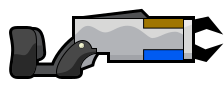
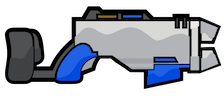
fix fast input and improve custom weapons

diff --git a/src/game/client/gameclient.cpp b/src/game/client/gameclient.cpp
@@ -2396,11 +2396,12 @@ void CGameClient::OnPredict()
 		pDummyChar = m_PredictedWorld.GetCharacterById(m_PredictedDummyId);
 
 	// predict //+KZ modified for fast input commit
-	int PredictionTick = Client()->GetPredictionTick() + g_Config.m_KaizoFastInput;
-	for(int Tick = Client()->GameTick(g_Config.m_ClDummy) + 1; Tick <= PredictionTick; Tick++)
+	int PredictionTick = Client()->GetPredictionTick();
+	int FinalTick = Client()->PredGameTick(g_Config.m_ClDummy) + g_Config.m_KaizoFastInput;
+	for(int Tick = Client()->GameTick(g_Config.m_ClDummy) + 1; Tick <= FinalTick; Tick++)
 	{
 		// fetch the previous characters
-		if(Tick == PredictionTick)
+		if(Tick == FinalTick) //+KZ modified for fast input commit
 		{
 			for(int i = 0; i < MAX_CLIENTS; i++)
 				if(CCharacter *pChar = m_PredictedWorld.GetCharacterById(i))
@@ -2426,7 +2427,7 @@ void CGameClient::OnPredict()
 		bool DummyFirst = pInputData && pDummyInputData && pDummyChar->GetCid() < pLocalChar->GetCid();
 
 		//+KZ fast input commit
-		if(g_Config.m_KaizoFastInput && Tick == PredictionTick)
+		if(g_Config.m_KaizoFastInput && Tick == FinalTick)
 			pInputData = &m_Controls.m_FastInput;
 
 		if(DummyFirst)
@@ -2505,7 +2506,7 @@ void CGameClient::OnPredict()
 		m_PredictedWorld.Tick();
 
 		// fetch the current characters
-		if(Tick == PredictionTick)
+		if(Tick == FinalTick) //+KZ modified for fast input commit
 		{
 			m_PrevPredictedWorld.CopyWorld(&m_PredictedWorld);
 
@@ -2531,7 +2532,7 @@ void CGameClient::OnPredict()
 			}
 
 		// check if we want to trigger effects
-		if(Tick > m_aLastNewPredictedTick[Dummy])
+		if(Tick > m_aLastNewPredictedTick[Dummy] && (Tick != FinalTick || !g_Config.m_KaizoFastInput)) //+KZ modified for fast input commit
 		{
 			m_aLastNewPredictedTick[Dummy] = Tick;
 			m_NewPredictedTick = true;
@@ -2563,6 +2564,10 @@ void CGameClient::OnPredict()
 		}
 	}
 
+	// +KZ modified for fast input commit
+	if(g_Config.m_KaizoFastInput)
+		m_PredictedWorld.CopyWorld(&m_PrevPredictedWorld);
+
 	// detect mispredictions of other players and make corrections smoother when possible
 	if(g_Config.m_ClAntiPingSmooth && Predict() && AntiPingPlayers() && m_NewTick && m_PredictedTick >= MIN_TICK && absolute(m_PredictedTick - Client()->PredGameTick(g_Config.m_ClDummy)) <= 1 && absolute(Client()->GameTick(g_Config.m_ClDummy) - Client()->PrevGameTick(g_Config.m_ClDummy)) <= 2)
 	{
@@ -2574,7 +2579,7 @@ void CGameClient::OnPredict()
 		{
 			if(!m_Snap.m_aCharacters[i].m_Active || i == m_Snap.m_LocalClientId || !m_aLastActive[i])
 				continue;
-			vec2 NewPos = (m_PredictedTick == PredictionTick /* +KZ modified for fast input commit */) ? m_aClients[i].m_Predicted.m_Pos : m_aClients[i].m_PrevPredicted.m_Pos;
+			vec2 NewPos = (m_PredictedTick == FinalTick /* +KZ modified for fast input commit */) ? m_aClients[i].m_Predicted.m_Pos : m_aClients[i].m_PrevPredicted.m_Pos;
 			vec2 PredErr = (m_aLastPos[i] - NewPos) / (float)minimum(Client()->GetPredictionTime(), 200);
 			if(in_range(length(PredErr), 0.05f, 5.f))
 			{
@@ -2652,7 +2657,7 @@ void CGameClient::OnPredict()
 		}
 	}
 
-	m_PredictedTick = PredictionTick;
+	m_PredictedTick = FinalTick; //+KZ modified for fast input commit
 
 	if(m_NewPredictedTick)
 		m_Ghost.OnNewPredictedSnapshot();

diff --git a/src/game/client/components/players.cpp b/src/game/client/components/players.cpp
@@ -510,10 +510,14 @@ void CPlayers::RenderPlayer(
 			State.Add(&g_pData->m_aAnimations[ANIM_WALK], WalkTime, 1.0f);
 	}
 
-	if(Player.m_Weapon == WEAPON_HAMMER)
-		State.Add(&g_pData->m_aAnimations[ANIM_HAMMER_SWING], std::clamp(LastAttackTime * 5.0f, 0.0f, 1.0f), 1.0f);
-	if(Player.m_Weapon == WEAPON_NINJA)
-		State.Add(&g_pData->m_aAnimations[ANIM_NINJA_SWING], std::clamp(LastAttackTime * 2.0f, 0.0f, 1.0f), 1.0f);
+	//+KZ custom weapons: avoid weird weapon positions
+	if(!(GameClient()->IsKaizoCharUpdated(ClientId) && GameClient()->m_aClients[ClientId].m_KaizoCustomWeapon >= 0))
+	{
+		if(Player.m_Weapon == WEAPON_HAMMER)
+			State.Add(&g_pData->m_aAnimations[ANIM_HAMMER_SWING], std::clamp(LastAttackTime * 5.0f, 0.0f, 1.0f), 1.0f);
+		if(Player.m_Weapon == WEAPON_NINJA)
+			State.Add(&g_pData->m_aAnimations[ANIM_NINJA_SWING], std::clamp(LastAttackTime * 2.0f, 0.0f, 1.0f), 1.0f);
+	}
 
 	// do skidding
 	if(!InAir && WantOtherDir && length(Vel * 50) > 500.0f)

diff --git a/src/game/gamecore_kz.cpp b/src/game/gamecore_kz.cpp
@@ -109,7 +109,7 @@ void CCharacterCore::PreTickKZ()
 {
 	if(m_Input.m_Fire & 1)
 	{
-		if(m_ActiveWeapon == KZ_CUSTOM_WEAPON_ATTRACTOR_BEAM && m_AttractorBeamPlayer == -1)
+		if((m_ActiveWeapon == KZ_CUSTOM_WEAPON_ATTRACTOR_BEAM || (m_pKaizoNetworkChar && m_pKaizoNetworkChar->m_RealCurrentWeapon == KZ_CUSTOM_WEAPON_ATTRACTOR_BEAM - KZ_CUSTOM_WEAPONS_START)) && m_AttractorBeamPlayer == -1)
 		{
 			vec2 Dir = vec2(m_Input.m_TargetX, m_Input.m_TargetY);
 			if(length(Dir) > 300.f)

diff --git a/src/game/client/components/players_kz.cpp b/src/game/client/components/players_kz.cpp
@@ -47,7 +47,7 @@ void CPlayers::RenderKaizoWeapon(const CNetObj_Character *pPrevChar, const CNetO
     case KZ_CUSTOM_WEAPON_PORTAL_GUN - KZ_CUSTOM_WEAPONS_START:
         {
 			vec2 WeaponPosition = Position + Direction * 24.f;
-			WeaponPosition.y += -2.f;
+			//WeaponPosition.y += -2.f;
 			if(IsSit)
 				WeaponPosition.y += 3.0f;
             Graphics()->TextureSet(g_pData->m_aImages[IMAGE_KZ_PORTAL].m_Id);

diff --git a/src/game/client/prediction/entities/character.cpp b/src/game/client/prediction/entities/character.cpp
@@ -1235,6 +1235,9 @@ CTeamsCore *CCharacter::TeamsCore()
 CCharacter::CCharacter(CGameWorld *pGameWorld, int Id, CNetObj_Character *pChar, CNetObj_DDNetCharacter *pExtended) :
 	CEntity(pGameWorld, CGameWorld::ENTTYPE_CHARACTER, vec2(0, 0), CCharacterCore::PhysicalSize())
 {
+	//+KZ added
+	m_Core.m_pKaizoNetworkChar = &m_KaizoNetworkChar;
+
 	m_Id = Id;
 	m_IsLocal = false;
 

diff --git a/src/game/gamecore.h b/src/game/gamecore.h
@@ -312,6 +312,7 @@ public: // KZ
 	SKZColGenericParams m_GenericParams;
 	void PreTickKZ();
 	int m_AttractorBeamPlayer = -1;
+	CNetObj_KaizoNetworkCharacter *m_pKaizoNetworkChar = nullptr; //for client prediction
 };
 
 // input count
